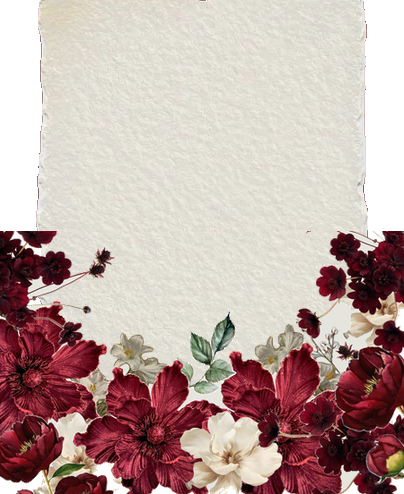
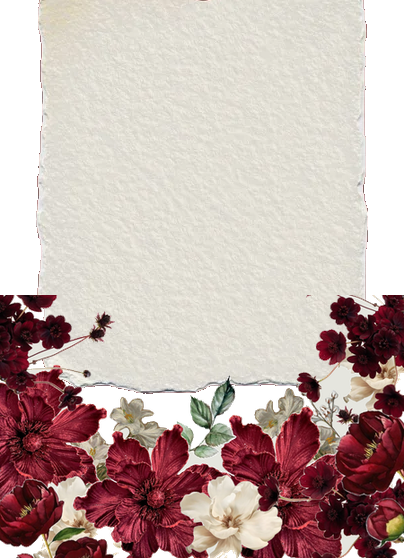
docs: contexto del proyecto y script para regenerar assets
La maquina de desarrollo se restaura de fabrica, asi que el contexto que
vivia solo en la sesion se documenta en el repo.

- CLAUDE.md: reglas de diseno acordadas, tabla de assets derivados con su
  origen, y las trampas conocidas al reprocesar las imagenes
- README.md: arranque, configuracion del RSVP y estructura
- scripts/generar-assets.py: reconstruye los derivados desde los originales,
  con asserts que verifican costura nula y que el papel no quede hueco

Regenerados floral-cream, sello-navy y verso-completo con el script.

diff --git a/scripts/generar-assets.py b/scripts/generar-assets.py
@@ -1,0 +1,159 @@
+"""
+Regenera los assets derivados de public/ a partir de los originales.
+
+    pip install pillow numpy
+    python scripts/generar-assets.py
+
+Los originales del cliente (fondo1.jpeg, Sello.png, Fondo_floreado.png,
+marco1.png, abajomarco.png) no se tocan. Todo lo demas se reconstruye.
+"""
+from collections import deque
+from pathlib import Path
+
+import numpy as np
+from PIL import Image, ImageEnhance, ImageOps
+
+PUB = Path(__file__).resolve().parent.parent / "public"
+
+
+def tile_espejado(src: Image.Image, lado: int) -> Image.Image:
+    """Tile 2x2 espejado: bordes opuestos identicos -> costura nula."""
+    W, H = src.size
+    corte = min(W, H)
+    sq = src.crop(((W - corte) // 2, (H - corte) // 2,
+                   (W - corte) // 2 + corte, (H - corte) // 2 + corte))
+    sq = sq.resize((lado, lado), Image.LANCZOS)
+    t = Image.new("RGB", (lado * 2, lado * 2))
+    t.paste(sq, (0, 0))
+    t.paste(ImageOps.mirror(sq), (lado, 0))
+    t.paste(ImageOps.flip(sq), (0, lado))
+    t.paste(ImageOps.mirror(ImageOps.flip(sq)), (lado, lado))
+    return t
+
+
+def costura(im: Image.Image) -> tuple[float, float]:
+    """Diferencia media entre bordes opuestos. 0.0 = repite sin costura."""
+    a = np.asarray(im.convert("RGB")).astype(int)
+    return (abs(a[:, 0] - a[:, -1]).mean(), abs(a[0] - a[-1]).mean())
+
+
+def quitar_fondo(im: Image.Image, es_fondo) -> Image.Image:
+    """
+    Flood fill desde los bordes. Solo borra el fondo conectado al exterior,
+    asi el sello (rodeado de papel, del mismo color que el fondo) sobrevive.
+    """
+    arr = np.array(im.convert("RGBA")).astype(int)
+    H, W = arr.shape[:2]
+    cand = es_fondo(arr[:, :, 0], arr[:, :, 1], arr[:, :, 2])
+
+    fuera = np.zeros((H, W), bool)
+    q = deque()
+    for x in range(W):
+        for y in (0, H - 1):
+            if cand[y, x] and not fuera[y, x]:
+                fuera[y, x] = True
+                q.append((y, x))
+    for y in range(H):
+        for x in (0, W - 1):
+            if cand[y, x] and not fuera[y, x]:
+                fuera[y, x] = True
+                q.append((y, x))
+    while q:
+        y, x = q.popleft()
+        for dy, dx in ((1, 0), (-1, 0), (0, 1), (0, -1)):
+            ny, nx = y + dy, x + dx
+            if 0 <= ny < H and 0 <= nx < W and cand[ny, nx] and not fuera[ny, nx]:
+                fuera[ny, nx] = True
+                q.append((ny, nx))
+
+    arr[:, :, 3] = np.where(fuera, 0, 255)
+    out = Image.fromarray(arr.astype("uint8"))
+    return out.crop(out.getbbox())
+
+
+def tenir(src: Image.Image, sombra, luz) -> Image.Image:
+    """Mapea luminancia a una rampa de color, conservando el relieve."""
+    r, g, b, a = src.convert("RGBA").split()
+    lum = ImageEnhance.Contrast(Image.merge("RGB", (r, g, b)).convert("L")).enhance(1.2)
+    lut = []
+    for ch in range(3):
+        lut += [int(sombra[ch] + (luz[ch] - sombra[ch]) * (i / 255)) for i in range(256)]
+    out = lum.convert("RGB").point(lut)
+    out.putalpha(a)
+    return out
+
+
+def main() -> None:
+    # --- fondos de papel (espejo 2x2, costura 0) ---
+    for origen, destino, lado in [("fondo1.jpeg", "fondo1-seamless.jpg", 512),
+                                  ("papel.jpeg", "papel-seamless.png", 225)]:
+        src = PUB / origen
+        if not src.exists():
+            print(f"  falta {origen}, salteado")
+            continue
+        t = tile_espejado(Image.open(src).convert("RGB"), lado)
+        if destino.endswith(".jpg"):
+            t.save(PUB / destino, quality=88, optimize=True)
+        else:
+            t.save(PUB / destino)
+        h, v = costura(t)
+        assert h == 0 and v == 0, f"{destino}: costura {h}/{v}, deberia ser 0"
+        print(f"  {destino}  {t.size}  costura {h}/{v}")
+
+    # --- floral: recorta la marca de agua "TOY" del pie ---
+    fl = Image.open(PUB / "Fondo_floreado.png").convert("RGB")
+    fl = fl.crop((0, 0, fl.size[0], int(fl.size[1] * 0.94)))
+    a = np.asarray(fl).astype(int)
+    lum = (a[:, :, 0] * 299 + a[:, :, 1] * 587 + a[:, :, 2] * 114) // 1000
+    t = lum / 255  # 0 = trazo, 1 = papel
+
+    sepia = np.dstack([np.full_like(lum, 122), np.full_like(lum, 96),
+                       np.full_like(lum, 74), (215 * (1 - t)).astype(int)])
+    Image.fromarray(sepia.astype("uint8")).save(PUB / "floral-sepia.png")
+    print("  floral-sepia.png")
+
+    crema = np.dstack([221 + (242 - 221) * t, 212 + (236 - 212) * t, 191 + (221 - 191) * t])
+    Image.fromarray(crema.astype("uint8")).save(PUB / "floral-cream.png")
+    print("  floral-cream.png")
+
+    # --- sellos ---
+    sello = Image.open(PUB / "Sello.png").convert("RGBA")
+    tenir(sello, (14, 26, 52), (108, 132, 178)).save(PUB / "sello-navy.png")
+    tenir(sello, (58, 8, 14), (176, 60, 70)).save(PUB / "sello-verso.png")
+    print("  sello-navy.png / sello-verso.png")
+
+    # --- papel del versiculo + flores ---
+    # Limites geometricos, NO por color: la zona sombreada del papel cae dentro
+    # del rango del granate y una mascara por color se come el tercio inferior.
+    papel = Image.open(PUB / "marco1.png").convert("RGB").crop((48, 196, 396, 626))
+    papel = quitar_fondo(papel, lambda r, g, b:
+                         (r < 150) & (g < 95) & (b < 95) & (r >= g + 15) & (r >= b + 15))
+    alpha = np.array(papel)[:, :, 3]
+    assert ((alpha > 60).sum(1) > 0).all(), "el papel quedo con filas huecas"
+    # recorta arriba hasta donde la hoja tiene su ancho completo
+    ancho = np.where((alpha > 60).sum(1) > alpha.shape[1] * 0.96)[0].min()
+    papel = papel.crop((0, ancho, papel.size[0], papel.size[1]))
+
+    flores = quitar_fondo(Image.open(PUB / "abajomarco.png"), lambda r, g, b:
+                          (abs(r - 229) < 26) & (abs(g - 229) < 26) & (abs(b - 222) < 28))
+    fa = np.array(flores)[:, :, 3]
+    filas = np.where((fa > 60).sum(1) > fa.shape[1] * 0.25)[0]
+    flores = flores.crop((0, filas.min(), flores.size[0], flores.size[1]))
+    flores = flores.crop(flores.getbbox())
+
+    PW, PH = papel.size
+    pad = int(PW * 0.11)
+    CW = PW + pad * 2
+    fh = int(flores.size[1] * CW / flores.size[0])
+    top = PH - int(fh * 0.38)  # el macizo pisa la base sin tapar el texto
+    lienzo = Image.new("RGBA", (CW, top + fh), (0, 0, 0, 0))
+    lienzo.alpha_composite(papel, (pad, 0))
+    lienzo.alpha_composite(flores.resize((CW, fh), Image.LANCZOS), (0, top))
+    lienzo.save(PUB / "verso-completo.png")
+    print(f"  verso-completo.png  {lienzo.size}")
+
+
+if __name__ == "__main__":
+    print("Regenerando assets en public/ ...")
+    main()
+    print("Listo.")

diff --git a/CLAUDE.md b/CLAUDE.md
@@ -1,0 +1,77 @@
+# Invitación de boda — Jonathan & Jasmin
+
+Invitación web de una sola página. React 18 + Vite + Tailwind.
+Boda: **01/02/2027**, Santa Cruz de la Sierra, Bolivia.
+
+```bash
+npm install
+npm run dev      # servidor local
+npm run build    # produccion -> dist/
+```
+
+## Reglas de diseño
+
+Estas son decisiones tomadas con el cliente, no preferencias. Respetarlas:
+
+1. **Una sola columna, de arriba a abajo, en todos los tamaños.** Se probó un
+   layout de dos columnas en escritorio y se rechazó: rompe la lectura
+   vertical de una invitación. En pantallas grandes se agranda el contenido,
+   nunca se reorganiza en horizontal.
+2. **El fondo de papel cubre el ancho completo de la pantalla.** El contenido
+   se centra en una columna (620px móvil, 860px `lg`, 980px `xl`). No va
+   contenido en una tarjeta angosta con márgenes a los lados.
+3. **El floral solo va arriba del módulo 1 y abajo del módulo 2**, difuminado
+   con `mask-image`. No es un fondo general.
+
+## Assets
+
+`public/` tiene originales del cliente y derivados generados con Pillow.
+**No borrar los originales**: los derivados se regeneran a partir de ellos.
+
+| Derivado | Origen | Proceso |
+|---|---|---|
+| `fondo1-seamless.jpg` | `fondo1.jpeg` | Recorte central 512px + espejo 2×2. Costura 0.0. **En uso.** |
+| `papel-seamless.png` | `papel.jpeg` | Igual. Fondo anterior, sin usar. |
+| `floral-sepia.png` | `Fondo_floreado.png` | Recolor a sepia `#7a604a` con alfa. Recortado 6% inferior (marca de agua "TOY"). |
+| `floral-cream.png` | `Fondo_floreado.png` | Tono sobre tono crema, para la solapa del sobre. |
+| `sello-navy.png` | `Sello.png` | Recolor plata → azul marino. Sobre de apertura. |
+| `sello-verso.png` | `Sello.png` | Recolor plata → granate. Tarjeta del versículo. |
+| `verso-completo.png` | `marco1.png` + `abajomarco.png` | Papel rasgado (recorte y 202-620, sin el fondo granate) compuesto con las flores (fondo eliminado por flood fill). |
+
+### Por qué están compuestos papel y flores en un solo archivo
+
+Tenían proporciones distintas (0.59 vs 1.22). Estirar las flores al ancho del
+papel las deformaba y las dejaba flotando debajo. Compuestos una vez a escala
+natural, el macizo floral apoya sobre la base del papel.
+
+### Trampas conocidas al reprocesar imágenes
+
+- **`marco1.png`**: el fondo granate es plano `(60,1,2)`, pero la zona
+  sombreada del papel cae dentro de ese rango de color. Una máscara por color
+  se come el tercio inferior de la hoja. Usar los límites geométricos
+  (papel: x 48-396, y 196-626) y verificar que no queden filas transparentes.
+- **Los tiles de papel necesitan espejo 2×2.** Repetir el original directo
+  deja costura visible (delta 17-27 entre bordes opuestos). El espejo la deja
+  en 0.0 por construcción.
+- **`abajomarco.png` y `Fondo_floreado.png`** traen fondo opaco. Hay que
+  quitarlo con flood fill desde los bordes, no con máscara global (una máscara
+  global también borra el sello, que es del mismo color que el fondo).
+
+## Pendiente
+
+- **La galería repite fotos.** `Gallery.jsx` tiene 5 posiciones y solo hay 3
+  imágenes en `public/` (`foto1`, `collage1`, `collage2`). Faltan 2 fotos
+  reales, o reducir la grilla a 3.
+- **RSVP sin backend.** `src/lib/api.js` habla GraphQL contra
+  `VITE_GRAPHQL_ENDPOINT` (ver `.env.example`). Sin esa variable, el RSVP
+  guarda en `localStorage` para poder previsualizar el flujo. Los nombres de
+  query y mutation (`rsvpStatus`, `submitRsvp`) son un contrato supuesto:
+  ajustarlos al schema real del backend.
+- **Sin navegador headless en el entorno.** Los cambios visuales se verifican
+  con `npm run build` y mirando la pantalla; no hay tests de regresión visual.
+
+## Texto de la invitación
+
+La dirección se corrigió respecto del diseño original de referencia, que decía
+"Av. San Martín **and** 4to anillo" y "Equipetrol Norte Santa Cruz" sin coma.
+Si el cliente quiere el texto textual del diseño, revertir en `Location.jsx`.

diff --git a/README.md b/README.md
@@ -1,0 +1,58 @@
+# Invitación de boda — Jonathan & Jasmin
+
+Invitación web de una página para la boda del **01/02/2027** en Santa Cruz de
+la Sierra, Bolivia.
+
+React 18 · Vite · Tailwind CSS
+
+## Arranque
+
+```bash
+npm install
+npm run dev       # http://localhost:5173
+npm run build     # produccion -> dist/
+npm run preview   # sirve el build
+```
+
+## RSVP
+
+El formulario habla GraphQL contra el endpoint de `VITE_GRAPHQL_ENDPOINT`.
+
+```bash
+cp .env.example .env
+# editar .env con la URL real del backend
+```
+
+Sin esa variable el RSVP guarda en `localStorage`, suficiente para
+previsualizar el flujo pero no para recibir confirmaciones reales.
+
+## Estructura
+
+```
+src/
+  App.jsx              layout de una columna, bandas florales
+  components/
+    Envelope.jsx       sobre de apertura con sello de lacre
+    Hero.jsx           foto en arco + escudo J&J
+    VerseCard.jsx      versiculo sobre papel rasgado
+    Gallery.jsx        mosaico de fotos
+    DressCode.jsx      codigo de vestimenta y paleta
+    Location.jsx       direccion + enlace a Waze
+    Rsvp.jsx           confirmacion de asistencia
+  lib/api.js           cliente GraphQL + respaldo local
+scripts/
+  generar-assets.py    regenera los derivados de public/
+```
+
+## Assets
+
+`public/` mezcla originales del cliente con derivados generados por script.
+Para reconstruir los derivados:
+
+```bash
+pip install pillow numpy
+python scripts/generar-assets.py
+```
+
+Ver [CLAUDE.md](CLAUDE.md) para el detalle de cada asset, las decisiones de
+diseño que hay que respetar y las trampas conocidas al reprocesar las imágenes.
